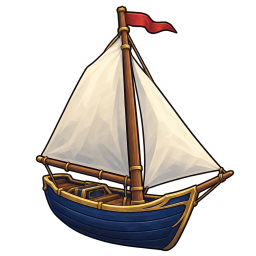
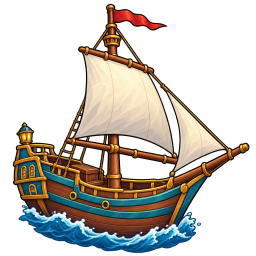
The Brigantine and the Galleon (the game's docs/own-boats.md, customizing phase 3): boats above the Sloop, built by the shipwright on Away (Brigantine: Sailing 100, Crafting 120, 1,000,000 coins, a keel, 2 masts, 4 canvas, 2 iron fittings, 12 rope; Galleon: Sailing 200, Crafting 200, 5,000,000 coins

diff --git a/src/RavenNest.BusinessLogic/Data/GameData.Entities.cs b/src/RavenNest.BusinessLogic/Data/GameData.Entities.cs
@@ -289,10 +289,16 @@ namespace RavenNest.BusinessLogic.Data
                     BoatHull = GetOrCreateItem(i, "Boat Hull", "A small wooden hull, sealed with resin. Bring it to the shipwright on Away.", ItemCategory.Resource, ItemType.Crafting),
                     Mast = GetOrCreateItem(i, "Mast", "A tall pine mast with iron fittings.", ItemCategory.Resource, ItemType.Crafting),
                     LargeHull = GetOrCreateItem(i, "Large Hull", "A big hull of ironbark, banded with steel, for a sloop.", ItemCategory.Resource, ItemType.Crafting),
+                    // the bigger ships' parts (customizing phase 3): the Brigantine and the Galleon
+                    Keel = GetOrCreateItem(i, "Keel", "The long spine of a ship, of ebonshade bound in steel. Everything else is built on it.", ItemCategory.Resource, ItemType.Crafting),
+                    Canvas = GetOrCreateItem(i, "Canvas", "Sailcloth doubled and roped at the edges, big enough for a square sail.", ItemCategory.Resource, ItemType.Crafting),
+                    IronFittings = GetOrCreateItem(i, "Iron Fittings", "Bolts, chains, hinges and cleats: all the iron a ship needs to hold together.", ItemCategory.Resource, ItemType.Crafting),
 
                     Rowboat = GetOrCreateItem(i, "Rowboat", "Your own little boat, from the shipwright on Away. Equip it and !sail takes it straight to the island you name.", ItemCategory.Vehicle, ItemType.Boat),
                     FishingBoat = GetOrCreateItem(i, "Fishing Boat", "A sturdy fishing boat with a sail. Faster than a rowboat, and made for fishing at sea.", ItemCategory.Vehicle, ItemType.Boat),
-                    Sloop = GetOrCreateItem(i, "Sloop", "A swift sloop, the fastest boat the shipwright makes.", ItemCategory.Vehicle, ItemType.Boat),
+                    Sloop = GetOrCreateItem(i, "Sloop", "A swift single-masted ship, quick to turn.", ItemCategory.Vehicle, ItemType.Boat),
+                    Brigantine = GetOrCreateItem(i, "Brigantine", "A two-masted ship with room for six. Fast on the open sea.", ItemCategory.Vehicle, ItemType.Boat),
+                    Galleon = GetOrCreateItem(i, "Galleon", "Three masts, ten aboard and a captain's cabin. The fastest thing at sea after the ferry.", ItemCategory.Vehicle, ItemType.Boat),
 
                     RaidScroll = GetOrCreateItem(i, "Raid Scroll", "A scroll that allows you to instantanously start and enter a raid.", ItemCategory.Scroll, ItemType.Scroll),
 
@@ -1329,6 +1335,9 @@ namespace RavenNest.BusinessLogic.Data
             EnsureCraftingRecipe(30, items.BoatHull, Ingredient(items.MystwoodLogs, 20), Ingredient(items.Resin, 6), Ingredient(items.IronBar, 2));
             EnsureCraftingRecipe(35, items.Mast, Ingredient(items.PineheartLogs, 8), Ingredient(items.Rope, 1), Ingredient(items.IronBar, 1));
             EnsureCraftingRecipe(60, items.LargeHull, Ingredient(items.IronbarkLogs, 25), Ingredient(items.Resin, 12), Ingredient(items.SteelBar, 4));
+            EnsureCraftingRecipe(120, items.Keel, Ingredient(items.EbonshadeLogs, 40), Ingredient(items.Resin, 16), Ingredient(items.SteelBar, 8));
+            EnsureCraftingRecipe(140, items.Canvas, Ingredient(items.Sailcloth, 3), Ingredient(items.Rope, 2));
+            EnsureCraftingRecipe(160, items.IronFittings, Ingredient(items.IronBar, 6), Ingredient(items.SteelBar, 4), Ingredient(items.MithrilBar, 2));
             EnsureCraftingRecipe(130, items.PhantomRing, items.GoldRing, items.PhantomOre);
             EnsureCraftingRecipe(130, items.PhantomAmulet, items.GoldAmulet, items.PhantomOre);
 

diff --git a/src/RavenNest.BusinessLogic/Game/Managers/BoatLooks.cs b/src/RavenNest.BusinessLogic/Game/Managers/BoatLooks.cs
@@ -42,6 +42,34 @@ namespace RavenNest.BusinessLogic.Game
             S("wood", 5, false, 1, 1, 2),
         };
 
+        /// <summary>Pirate Realm's medium ship (the Brigantine): one hull (its rigging is made for it), the rest as the Sloop.</summary>
+        private static readonly Slot[] MediumShip =
+        {
+            S("hull", 1, false, 1, 1),
+            S("front", 3, false, 1, 1),
+            S("middle", 4, false, 1, 1),
+            S("back", 4, false, 1, 1),
+            S("figurehead", 7, true, 0, 0),
+            S("ram", 4, true, 0, 0),
+            S("sails", 14, false, 1, 1, 2),
+            S("flag", 17, true, 0, 0, 1, 2, 3),
+            S("wood", 5, false, 1, 1, 2),
+        };
+
+        /// <summary>Pirate Realm's large ship (the Galleon).</summary>
+        private static readonly Slot[] LargeShip =
+        {
+            S("hull", 1, false, 1, 1),
+            S("front", 3, false, 1, 1),
+            S("middle", 3, false, 1, 1),
+            S("back", 3, false, 1, 1),
+            S("figurehead", 7, true, 0, 0),
+            S("ram", 4, true, 0, 0),
+            S("sails", 14, false, 1, 1, 2),
+            S("flag", 17, true, 0, 0, 1, 2, 3),
+            S("wood", 5, false, 1, 1, 2),
+        };
+
         /// <summary>The Rowboat and the Fishing Boat keep their models: a flag at the stern only.</summary>
         private static readonly Slot[] FlagOnly =
         {
@@ -95,7 +123,10 @@ namespace RavenNest.BusinessLogic.Game
         public const string PirateFlag = "flag_7";
 
         public static IReadOnlyList<Slot> SlotsFor(string boat) =>
-            string.Equals(boat, "Sloop", StringComparison.OrdinalIgnoreCase) ? SmallShip : FlagOnly;
+            string.Equals(boat, "Sloop", StringComparison.OrdinalIgnoreCase) ? SmallShip
+            : string.Equals(boat, "Brigantine", StringComparison.OrdinalIgnoreCase) ? MediumShip
+            : string.Equals(boat, "Galleon", StringComparison.OrdinalIgnoreCase) ? LargeShip
+            : FlagOnly;
 
         public static Slot Find(string boat, string slot) =>
             SlotsFor(boat).FirstOrDefault(s => string.Equals(s.Name, slot, StringComparison.OrdinalIgnoreCase));

diff --git a/src/RavenNest.BusinessLogic/Game/Managers/BoatManager.cs b/src/RavenNest.BusinessLogic/Game/Managers/BoatManager.cs
@@ -42,6 +42,19 @@ namespace RavenNest.BusinessLogic.Game
                 Sailing = 60, Crafting = 50, Fee = 250_000,
                 Parts = new[] { ("Large Hull", 1L), ("Mast", 2L), ("Sailcloth", 3L), ("Rope", 8L) },
             },
+            // the bigger ships (customizing phase 3): Pirate Realm's medium and large ships in the game
+            new Blueprint
+            {
+                Boat = "Brigantine", Names = new[] { "brigantine", "brig" },
+                Sailing = 100, Crafting = 120, Fee = 1_000_000,
+                Parts = new[] { ("Keel", 1L), ("Mast", 2L), ("Canvas", 4L), ("Iron Fittings", 2L), ("Rope", 12L) },
+            },
+            new Blueprint
+            {
+                Boat = "Galleon", Names = new[] { "galleon" },
+                Sailing = 200, Crafting = 200, Fee = 5_000_000,
+                Parts = new[] { ("Keel", 2L), ("Large Hull", 1L), ("Mast", 3L), ("Canvas", 8L), ("Iron Fittings", 6L), ("Rope", 24L) },
+            },
         };
 
         private readonly GameData gameData;
@@ -72,6 +85,8 @@ namespace RavenNest.BusinessLogic.Game
 
         /// <summary>Seats on each boat, the owner's included (the game's BoatCrews.Seats).</summary>
         public static int Seats(string boat) =>
+            string.Equals(boat, "Galleon", StringComparison.OrdinalIgnoreCase) ? 10 :
+            string.Equals(boat, "Brigantine", StringComparison.OrdinalIgnoreCase) ? 6 :
             string.Equals(boat, "Sloop", StringComparison.OrdinalIgnoreCase) ? 4 :
             string.Equals(boat, "Fishing Boat", StringComparison.OrdinalIgnoreCase) ? 2 : 1;
 

diff --git a/src/RavenNest.BusinessLogic/Data/GameData.cs b/src/RavenNest.BusinessLogic/Data/GameData.cs
@@ -5605,9 +5605,14 @@ namespace RavenNest.BusinessLogic.Data
         public Item BoatHull;
         public Item Mast;
         public Item LargeHull;
+        public Item Keel;
+        public Item Canvas;
+        public Item IronFittings;
         public Item Rowboat;
         public Item FishingBoat;
         public Item Sloop;
+        public Item Brigantine;
+        public Item Galleon;
         public Item ExpMultiplierScroll;
         public Item RaidScroll;
         public Item DungeonScroll;
